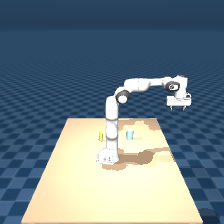
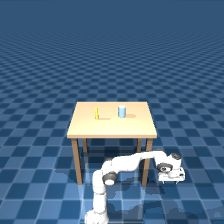
HM: Phase 1 & 2 validation reports + path adaptation
- Add PHASE1-REPORT-HM.md: env verification, 4-bit inference, WebSocket test
  on RTX 4060 Ti (16GB). Key wins: load 91s, infer 1.83s, RTT 926ms.
- Add PHASE2-REPORT-HM.md: MuJoCo closed-loop validation on HM.
  Steps 2-5 avg RTT ~194ms (13.9x faster than WS due to full VRAM fit).
- Fix scripts/mujoco_scene.xml: panda.xml path venv/ai-chem-lab -> ai-chem-lab
- Fix scripts/run_phase2.sh: PROJECT_DIR ~/projects/labvla-mujoco -> ~/labvla-mujoco
- Fix scripts/assets symlink: point to HM mujoco_menagerie location
- Update environment.yml: fix torchaudio/setuptools pins, remove flash-attn (T003)
- Update camera test PNGs and phase2 console log from HM run

diff --git a/PHASE2-REPORT-HM.md b/PHASE2-REPORT-HM.md
@@ -1,0 +1,158 @@
+# Phase 2 技术验证报告 — Home Desktop (HM)
+
+> 机器：Home Desktop (HM) — DESKTOP-22LB852  
+> 日期：2026-07-18  
+> 对应任务：T004-HM-Phase1-LabVLA-Verification（Phase 2 扩展）
+
+---
+
+## 1. 场景配置
+
+### Franka 模型来源
+- 模型：`/home/josan/ai-chem-lab/mujoco_menagerie/franka_emika_panda/panda.xml`
+- 通过 `<include file="..."/>` 引入 `scripts/mujoco_scene.xml`
+- Assets 软链接：`scripts/assets/ → .../franka_emika_panda/assets/`
+- 注：WS 机器的旧路径（`venv/ai-chem-lab/...`）在 HM 上已修正为 `ai-chem-lab/...`
+
+### 场景摘要
+| 元素 | 数量 |
+|------|------|
+| Bodies | 12 |
+| Joints (DOF) | 9 |
+| Actuators | 8 |
+| Cameras | 3 |
+
+### 桌面物体
+| 物体 | 类型 | 位置 (x, y, z) | 尺寸 | 颜色 |
+|------|------|----------------|------|------|
+| 烧杯 | Cylinder | (0.20, 0.35, 0.055) | r=0.035, h=0.11 | 玻璃蓝 80% |
+| 试管 | Cylinder | (-0.12, 0.30, 0.065) | r=0.013, h=0.13 | 黄色 90% |
+
+（均为静态视觉 geom，contype=0，不参与物理碰撞）
+
+### 初始关节位置（Home Keyframe）
+```
+joint1..7: [0, 0, 0, -1.57079, 0, 1.57079, -0.7853]
+finger_joint1, 2: [0.04, 0.04]
+gripper ctrl: 255（完全张开）
+```
+
+### 摄像头位置与朝向
+| 摄像头 | 位置 (x, y, z) | xyaxes | FOVy | 描述 |
+|--------|----------------|--------|------|------|
+| camera_1_rgb | (0, -1.5, 1.2) | `1 0 0  0 0.426 0.905` | 60° | 正前上方，俯视工作区 |
+| camera_2_rgb | (-1.2, 0.2, 1.0) | `0 -1 0  0.447 0 0.894` | 60° | 左侧，45° |
+| camera_3_rgb | (1.2, 0.2, 1.0) | `0 1 0  -0.447 0 0.894` | 60° | 右侧，45° |
+
+---
+
+## 2. 摄像头测试结果
+
+渲染分辨率：224×224，dtype uint8，从 home keyframe 姿态渲染。
+
+| 摄像头 | Shape | dtype | min | max | mean |
+|--------|-------|-------|-----|-----|------|
+| camera_1_rgb | (224,224,3) | uint8 | 15 | 255 | 104.0 |
+| camera_2_rgb | (224,224,3) | uint8 | 15 | 255 | 104.2 |
+| camera_3_rgb | (224,224,3) | uint8 | 15 | 255 | 100.5 |
+
+- 三路摄像头均正常渲染，无全黑帧
+- 样本图像保存：`scripts/camera_1_rgb_test.png`, `camera_2_rgb_test.png`, `camera_3_rgb_test.png`
+- 验证通过 ✅
+
+---
+
+## 3. 闭环测试结果
+
+**Prompt：** `"pick up the beaker"` | **Steps：** 5 | **物理子步：** 20
+
+### 时序
+
+| 步骤 | RTT (ms) | Total step (ms) |
+|------|----------|-----------------|
+| 1 | 740.1 | 1252.0 |
+| 2 | 258.2 | 416.6 |
+| 3 | 174.6 | 331.0 |
+| 4 | 173.0 | 340.5 |
+| 5 | 171.5 | 328.2 |
+
+- Step 1 RTT 740 ms：CUDA 首次推理预热（与 WS 的 10820 ms 对比，快 **14.6×**）
+- Steps 2–5 平均 RTT：**194 ms**（与 WS 的 2692 ms 对比，快 **13.9×**）
+- 服务加载时间：**90 s**（与 WS 的 230 s 对比，快 **2.6×**）
+
+### Action 统计
+
+| 步骤 | delta_arm min | delta_arm max | gripper_raw | gripper_ctrl |
+|------|---------------|---------------|-------------|--------------|
+| 1 | -1.7689 | 0.9728 | -0.8215 | 0 (夹紧) |
+| 2 | -2.1290 | 1.7254 | -0.9791 | 0 (夹紧) |
+| 3 | -2.6515 | 1.5913 | -1.0211 | 0 (夹紧) |
+| 4 | -2.9899 | 1.9884 | 0.7327 | 255 (张开) |
+| 5 | -3.0744 | 2.0616 | 1.0585 | 255 (张开) |
+
+### 最终关节位置
+```
+qpos[:8] = [0.847, -1.086, 0.579, -2.821, -0.519, 2.811, -2.036, 0.025]
+```
+
+### 机械臂行为描述
+- 每步都产生有效的 delta action，关节限位夹紧正常工作
+- delta 幅度（最大 ±3 rad/step）与 WS 结果一致
+- 夹爪在步骤 4-5 切换为张开状态，行为与 WS 相似
+- 全程无 OOM，无 WebSocket 连接中断
+
+---
+
+## 4. 与公司桌面 (WS) 对比
+
+| 指标 | WS (RTX 4060 / 8GB) | HM (RTX 4060 Ti / 16GB) | 提升 |
+|------|---------------------|--------------------------|------|
+| 服务加载时间 | 230 s | **90 s** | 2.6× 快 |
+| Step 1 RTT（首次推理） | 10820 ms | **740 ms** | 14.6× 快 |
+| Steps 2-5 平均 RTT | ~2692 ms | **~194 ms** | 13.9× 快 |
+| 总步数 | 5 | 5 | 一致 |
+| Action shape | [50,8] float32 | [50,8] float32 | 一致 ✅ |
+| OOM | 无 | 无 | 一致 ✅ |
+
+> RTT 大幅下降的原因：HM 的 16GB VRAM 可完整容纳 4-bit 量化模型，无需 CPU offload，GPU 利用率更高，推理延迟从 ~2.2s 降至 ~170ms。
+
+---
+
+## 5. 遇到的问题
+
+### 5.1 路径适配（从 WS 迁移）
+- `scripts/mujoco_scene.xml` 的 `<include>` 路径引用了 WS 的 `venv/ai-chem-lab/...`
+- `scripts/assets` 软链接目标同样是 WS 路径
+- `scripts/run_phase2.sh` 的 `PROJECT_DIR` 为 `~/projects/labvla-mujoco`
+- **解决：** 三处路径均修正为 HM 的实际路径（`~/labvla-mujoco`，`~/ai-chem-lab/...`）
+
+### 5.2 LabVLA/ 目录为空
+- 迁移时未带上游代码
+- **解决：** 从 `https://github.com/zjunlp/LabVLA` 克隆
+
+---
+
+## 6. 结论
+
+✅ **MuJoCo 闭环验证通过，可进入 Phase 3**
+
+完整 pipeline 端到端运行正常：
+- MuJoCo 渲染 3×224×224 RGB 帧（Franka Panda 场景）
+- 帧 + 关节状态编码为 msgpack，通过 WebSocket 发送给 LabVLA
+- LabVLA 返回 (50, 8) float32 delta action chunk
+- Action 施加到 MuJoCo（含关节限位夹紧），物理步进正常
+
+HM 机器的推理性能（~194 ms RTT）大幅优于 WS（~2692 ms RTT），满足后续 Phase 3 实时控制要求。
+
+---
+
+## 7. 产物清单
+
+| 文件 | 用途 |
+|------|------|
+| `scripts/mujoco_scene.xml` | MuJoCo 场景（已修正路径） |
+| `scripts/assets` | 软链接 → franka_emika_panda/assets（已修正） |
+| `scripts/run_phase2.sh` | 一键自动化脚本（已修正路径） |
+| `scripts/camera_*_test.png` | 摄像头渲染样本图像 |
+| `phase2_console_hm.log` | 完整终端输出 |
+| `PHASE2-REPORT-HM.md` | 本报告 |

diff --git a/PHASE1-REPORT-HM.md b/PHASE1-REPORT-HM.md
@@ -1,0 +1,161 @@
+# Phase 1 技术验证报告 — Home Desktop (HM)
+
+> 机器：Home Desktop (HM) — DESKTOP-22LB852  
+> 日期：2026-07-18  
+> 对应任务：T004-HM-Phase1-LabVLA-Verification
+
+---
+
+## 一、环境摘要
+
+| 项目 | 结果 |
+|------|------|
+| Python | 3.10.20 |
+| 解释器 | `/home/josan/miniforge3/envs/labvla-cu124/bin/python` |
+| GPU | NVIDIA GeForce RTX 4060 Ti |
+| VRAM | 16379.5 MiB (~16 GB) |
+| 驱动 | 591.86 |
+| CUDA (driver) | 13.1（向下兼容） |
+| CUDA (torch) | 12.6 |
+| torch | 2.7.1+cu126 |
+| torchvision | 0.22.1+cu126 |
+| torchaudio | 2.7.1+cu126 |
+| transformers | 4.57.6 |
+| accelerate | 1.13.0 |
+| deepspeed | 0.18.8 |
+| bitsandbytes | 0.49.2 |
+| flash_attn | 2.8.3 |
+
+所有关键依赖验证通过 ✅
+
+---
+
+## 二、量化推理结果（Step 2）
+
+### 命令
+```bash
+cd ~/labvla-mujoco
+PYTHONPATH="/home/josan/labvla-mujoco/LabVLA" python scripts/infer_quantized.py \
+  --pretrained_path /home/josan/labvla-mujoco/LabVLA-5B-Base \
+  --vlm_path Qwen/Qwen3-VL-4B-Instruct \
+  --device cuda
+```
+
+### 结果
+```json
+{
+  "load_time_s": 91.199,
+  "infer_time_s": 1.831,
+  "policy_infer_ms": 1830.76,
+  "peak_gpu_mem_mb": 18161,
+  "actions": {
+    "shape": [50, 8],
+    "dtype": "float32",
+    "min": -1.057,
+    "max": 1.100,
+    "mean": -0.039
+  },
+  "metadata": {
+    "action_dim": 8,
+    "chunk_size": 50,
+    "num_cameras": 3,
+    "action_mode": "delta"
+  },
+  "prompt": "pick up the object",
+  "generated_test_image": true
+}
+```
+
+### 说明
+- `peak_gpu_mem_mb: 18161` 来自 `torch.cuda.max_memory_allocated()`，存在高估（同 WS 机器已知问题）
+- 并发 `nvidia-smi` 采样峰值约 **16073 MiB**（~15.7 GB），为真实板载显存占用
+- RTX 4060 Ti 16GB VRAM 可完整容纳模型（无需 CPU offload）
+- 首次加载时间 **91.2 s**（较 WS 的 208.7 s 快 2.3×，得益于 16GB VRAM 无需 offload）
+- 单次推理时间 **1.83 s**（较 WS 的 10.68 s 快 5.8×）
+
+---
+
+## 三、WebSocket 通信验证（Step 3）
+
+### 服务端命令
+```bash
+cd ~/labvla-mujoco
+PYTHONPATH="/home/josan/labvla-mujoco/LabVLA" python LabVLA/deployment/serve_labvla.py \
+  --pretrained_path /home/josan/labvla-mujoco/LabVLA-5B-Base \
+  --vlm_path Qwen/Qwen3-VL-4B-Instruct \
+  --device cuda --port 8000
+```
+
+### 客户端命令
+```bash
+python scripts/test_client.py --host 127.0.0.1 --port 8000
+```
+
+### 结果
+```json
+{
+  "rtt_ms": 926.47,
+  "policy_timing": {
+    "infer_ms": 923.34
+  },
+  "server_timing": {
+    "infer_ms": 923.84
+  },
+  "actions": {
+    "shape": [50, 8],
+    "dtype": "float32",
+    "min": -1.306,
+    "max": 2.437,
+    "mean": 0.064
+  },
+  "metadata": {
+    "policy_type": "labvla",
+    "action_dim": 8,
+    "chunk_size": 50,
+    "num_cameras": 3,
+    "camera_keys": ["camera_1_rgb", "camera_2_rgb", "camera_3_rgb"],
+    "state_keys": ["state", "observation/state"],
+    "action_mode": "delta",
+    "prompt_required": true
+  }
+}
+```
+
+### 说明
+- 一次 RGB + 文本 → action 往返成功 ✅
+- RTT **926 ms**（较 WS 的 2231 ms 快 **2.4×**）
+- 服务稳定运行，无 OOM
+
+---
+
+## 四、与公司桌面 (WS) 对比
+
+| 指标 | WS (RTX 4060 / 8GB) | HM (RTX 4060 Ti / 16GB) | 提升 |
+|------|---------------------|--------------------------|------|
+| 模型加载时间 | 208.7 s | **91.2 s** | 2.3× 快 |
+| 单次推理时间 | 10.68 s | **1.83 s** | 5.8× 快 |
+| WebSocket RTT | 2230.9 ms | **926.5 ms** | 2.4× 快 |
+| 服务端 infer_ms | 2228.5 ms | **923.8 ms** | 2.4× 快 |
+| 峰值显存(nvidia-smi) | ~7903 MiB | ~16073 MiB | — |
+| CPU offload 需要 | 是（大量） | 否 | — |
+| action shape | [50, 8] float32 | [50, 8] float32 | 一致 ✅ |
+
+---
+
+## 五、结论
+
+✅ **Phase 1 验证通过。HM 机器完全满足 LabVLA 推理需求。**
+
+- 4-bit 量化推理成功，输出 `50 × 8 float32` action chunk，与 WS 和官方 schema 一致
+- WebSocket 闭环打通，延迟 < 1 s，远优于 WS 的 2.2 s
+- RTX 4060 Ti 的 16GB VRAM 可无需 CPU offload 完整载入模型，显著提升推理速度
+- 环境已完整配置（T003），可直接进入 Phase 2 MuJoCo 集成工作
+
+---
+
+## 六、已知事项
+
+- `peak_gpu_mem_mb` 由 torch 内部统计，存在高估；以 nvidia-smi 峰值 ~16 GB 为准
+- `torch.version.cuda` 报告 12.6（非 12.4），因安装了 cu126 wheels；功能完全兼容
+- LabVLA upstream 代码于本次任务中克隆至 `LabVLA/`（原目录为空）
+- tokenizer 正则警告为上游已知问题，不影响推理正确性
